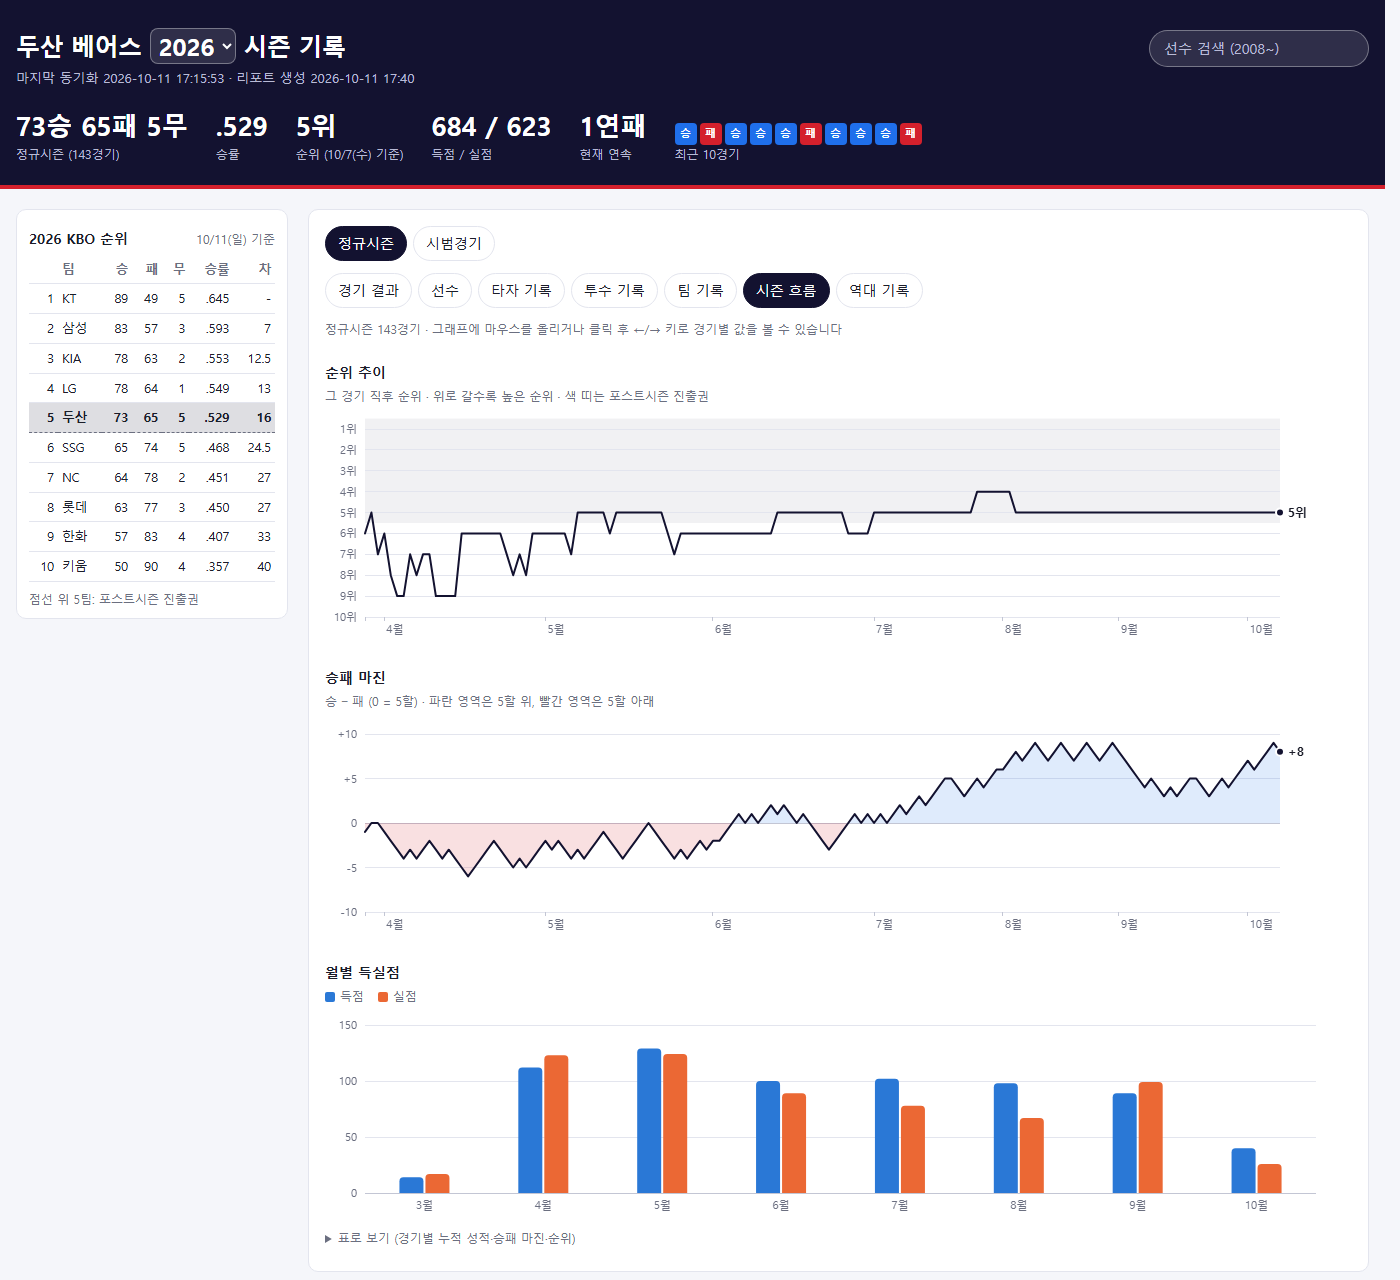
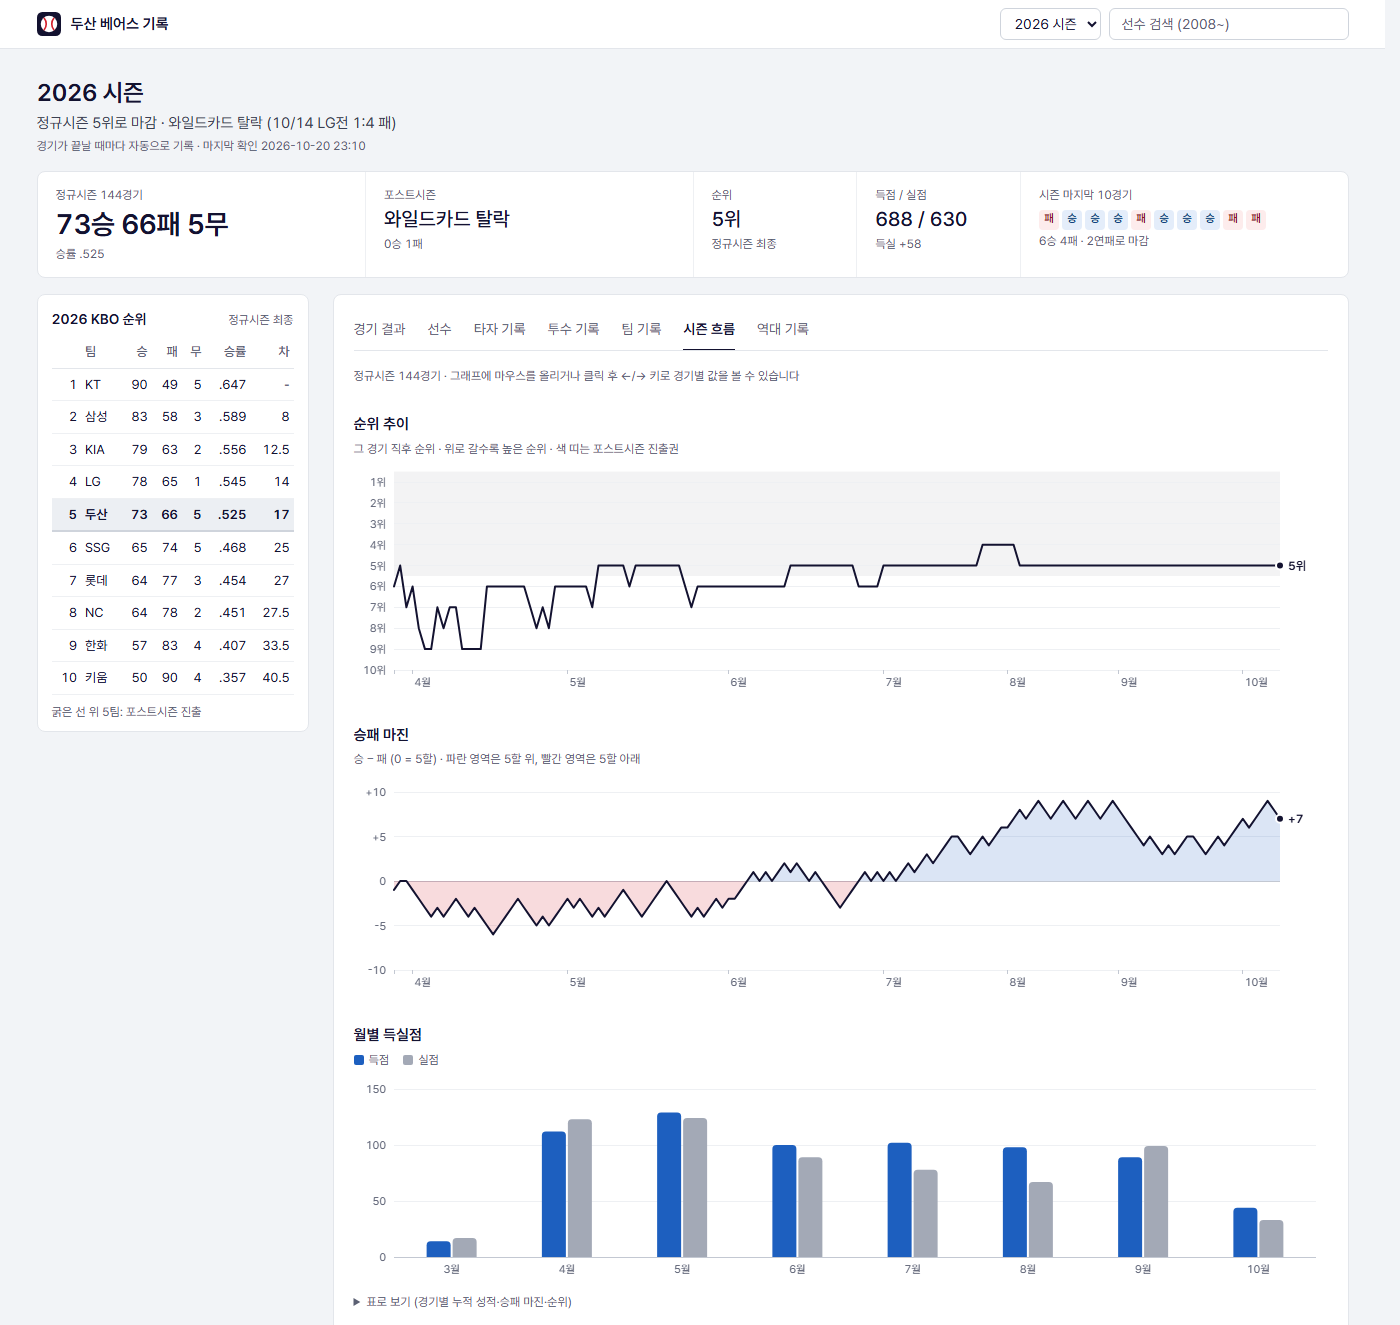
README: 새 디자인 화면 캡처와 상단 설명으로 갱신

diff --git a/README.md b/README.md
@@ -9,13 +9,13 @@
 
 | 메인 화면 | 시즌 흐름 탭 |
 |---|---|
-| ![메인 화면: 시즌 성적, KBO 순위표, 다음 경기 선발 매치업, 경기 결과](docs/screenshot-main.png) | ![시즌 흐름 탭: 순위 추이, 승패 마진, 월별 득실점 그래프](docs/screenshot-flow.png) |
+| ![메인 화면: 시즌 요약, 성적 줄, KBO 순위표, 경기 결과](docs/screenshot-main.png) | ![시즌 흐름 탭: 순위 추이, 승패 마진, 월별 득실점 그래프](docs/screenshot-flow.png) |
 
 ## 화면
 
 | 위치 | 내용 |
 |---|---|
-| 상단 | 시즌 성적(승패·승률·순위·득실·연속), 최근 10경기, **시즌 선택**, **선수 검색** |
+| 상단 | **시즌 요약 한 줄**(순위·포스트시즌 결과·다음 경기), 성적 줄(승패·승률·순위·포스트시즌·득실·최근 10경기와 연속), **시즌 선택**, **선수 검색** |
 | 왼쪽 | **KBO 리그 순위표** (넓은 화면에서 스크롤을 따라다님, 좁은 화면에선 본문 위에 접힘) |
 | 다음 경기 | **선발 투수 매치업**(시즌·상대 전적), 시즌 상대 전적, 양 팀 최근 5경기, 순위 |
 | 경기 결과 탭 | 경기 목록(20경기씩 더보기), 누르면 박스스코어(이닝별 점수·타자·투수·결승타 등) |
